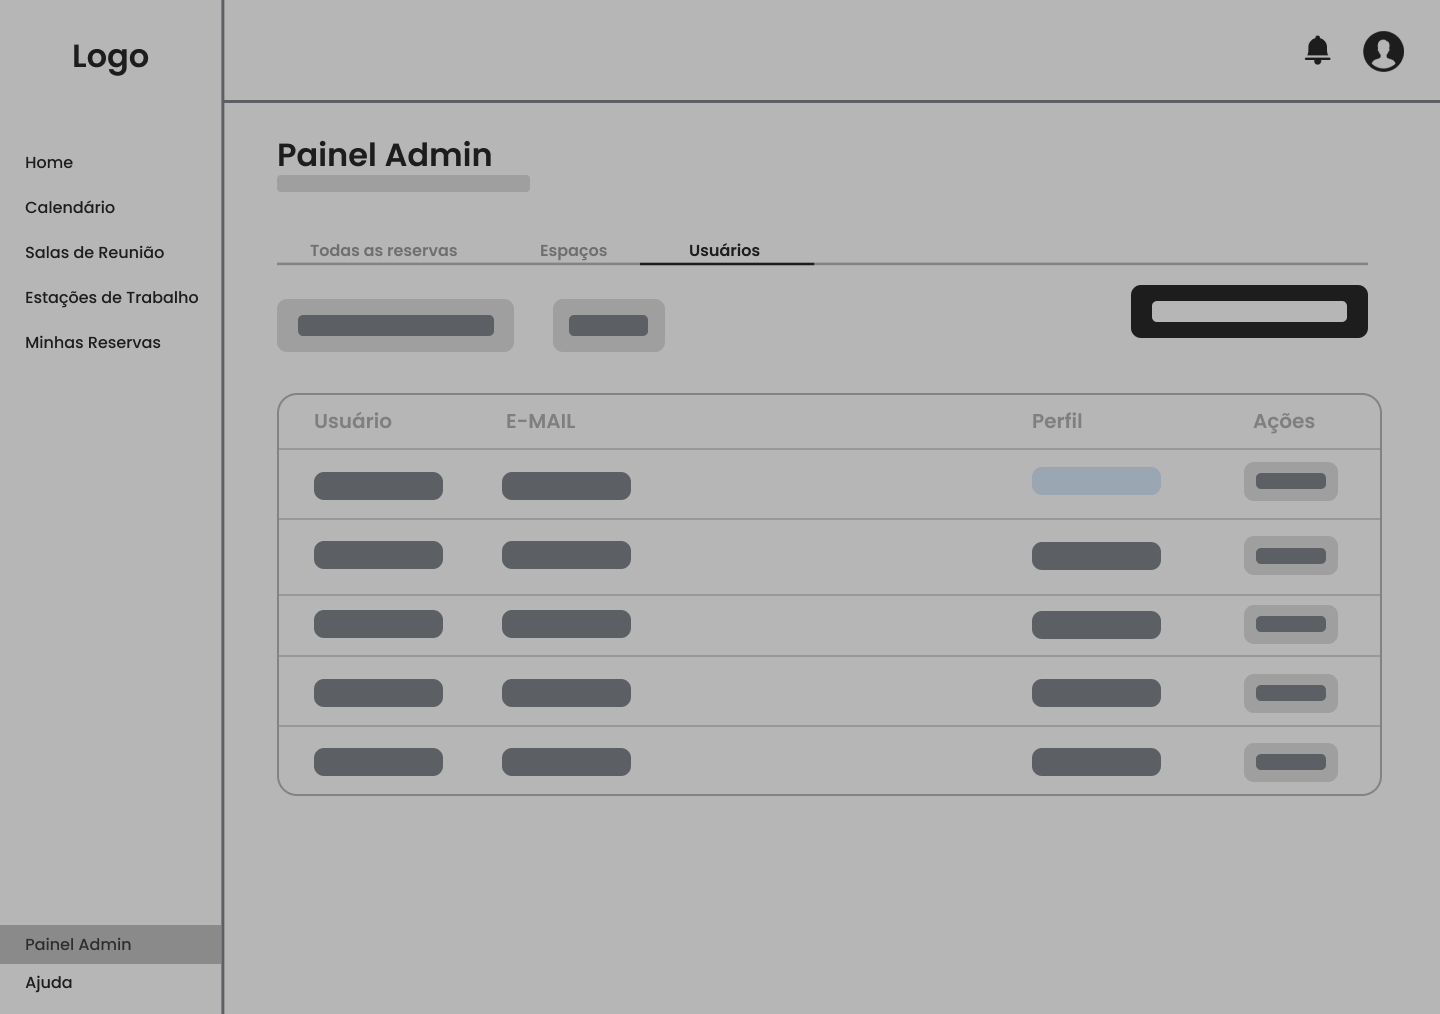
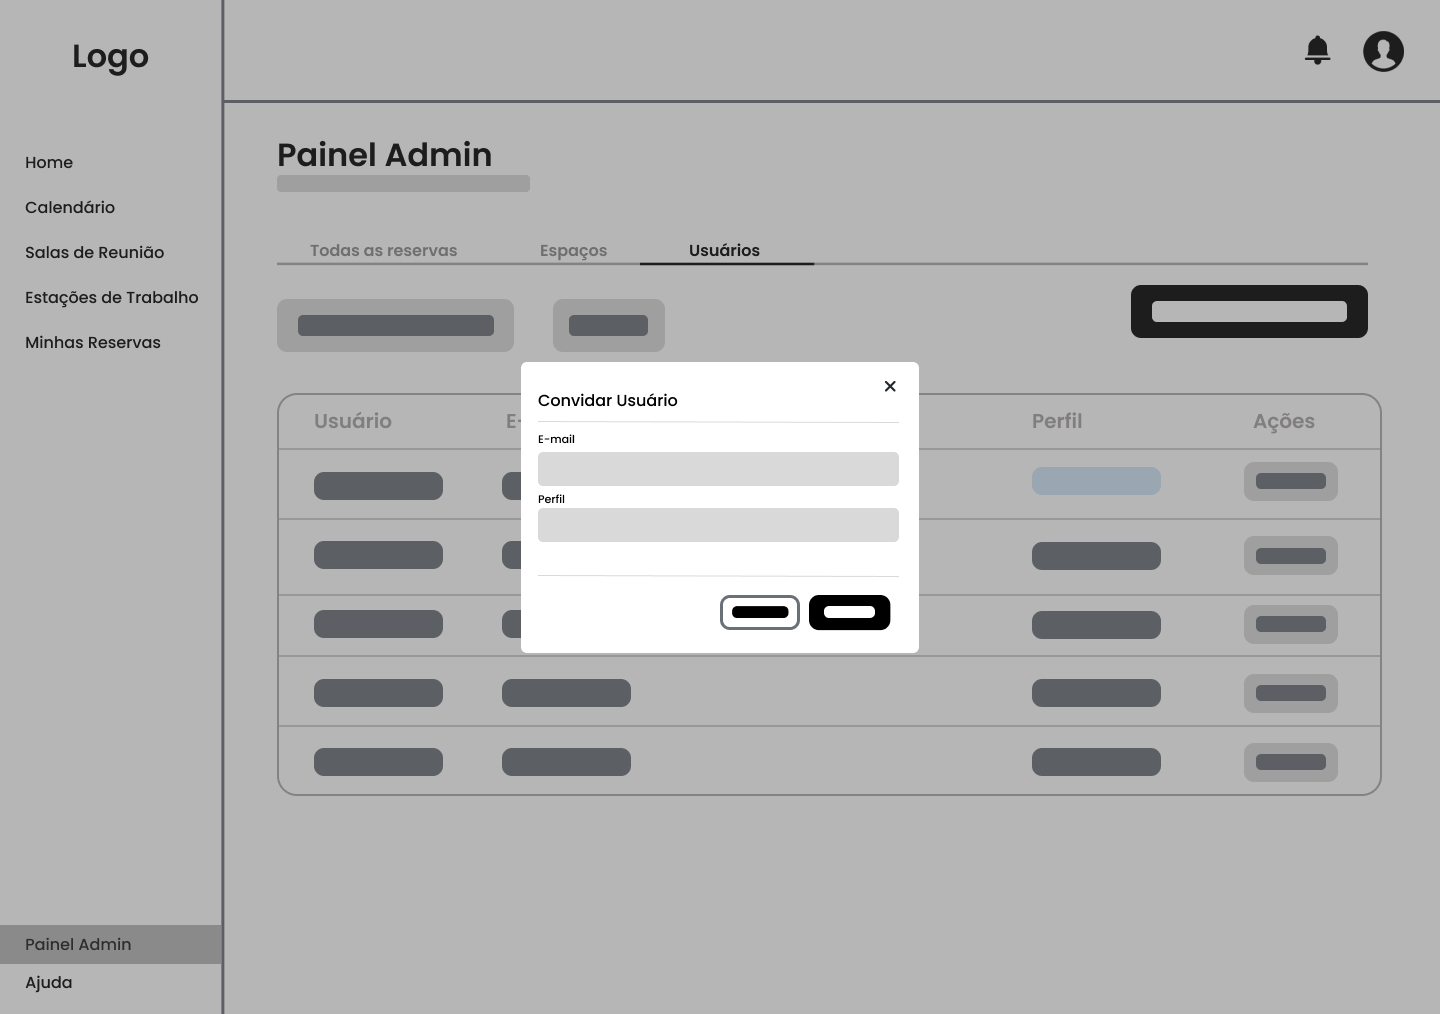
Update interface.md

Changed region(s): [[0.3438, 0.3363, 0.6562, 0.642]]

diff --git a/docs/interface.md b/docs/interface.md
@@ -1,11 +1,12 @@
-
 # Projeto de Interface
 
-A interface do Deskly foi projetada com foco na organização e facilidade de uso, atendendo tanto colaboradores quanto administradores. A navegação permite que os usuários realizem tarefas como visualizar salas, fazer reservas e gerenciar convidados de forma ágil.
+A interface do Deskly apresenta as principais funcionalidades do sistema por meio de telas organizadas e intuitivas, permitindo que usuários realizem reservas, consultem disponibilidade e gerenciem informações de forma eficiente.
 
-As telas foram desenvolvidas com base nas histórias de usuário, garantindo um fluxo eficiente para ações como o agendamento de salas. O sistema também é responsivo, apresenta bom desempenho e organiza as informações de forma clara, facilitando a tomada de decisão.
+As interfaces foram desenvolvidas com base nos requisitos funcionais e não funcionais, além das histórias de usuário, garantindo usabilidade, desempenho e clareza na navegação.
 
 ## User Flow
+
+Fluxo de usuário é uma técnica que permite mapear o caminho percorrido pelo usuário dentro do sistema, representando suas interações desde o acesso até a execução de ações.
 
 O fluxo de usuário do Deskly representa os caminhos desde o login até a execução das principais ações do sistema, como consultas, reservas e gerenciamento.
 
@@ -15,9 +16,9 @@ Após o acesso, o usuário navega entre as funcionalidades disponíveis de forma
 
 ## Wireframes
 
-Os wireframes do Deskly apresentam a estrutura das telas e a disposição dos elementos da interface, como menus, botões e campos de informação.
+Os wireframes são protótipos utilizados para representar a estrutura das telas e a organização dos elementos da interface, como menus, botões e campos de informação.
 
-Eles foram utilizados para definir o layout e a relação entre as páginas, garantindo que cada funcionalidade do sistema esteja bem posicionada e alinhada aos requisitos do projeto.
+No Deskly, eles foram utilizados para definir o layout e a relação entre as páginas, garantindo que cada funcionalidade do sistema esteja bem posicionada e alinhada aos requisitos funcionais definidos na documentação do projeto.
 
 ## Tela de Login
 
@@ -27,25 +28,36 @@ Eles foram utilizados para definir o layout e a relação entre as páginas, gar
 
 ## Tela Inicial (Dashboard)
 
-A tela inicial apresenta um menu lateral com acesso às principais funcionalidades do sistema, como calendário, salas de reunião, estações de trabalho e reservas. No topo, há uma barra de navegação com informações do usuário e notificações. A área central organiza os conteúdos de forma clara para navegação. Nesta tela, são atendidos os requisitos de acesso rápido às funcionalidades e organização do sistema.
+A tela inicial apresenta um menu lateral com acesso às principais funcionalidades do sistema, como calendário, salas de reunião, estações de trabalho e reservas. No topo, há uma barra de navegação com informações do usuário, saudação personalizada, data atual e notificações. A área central exibe um resumo com dados importantes, como quantidade de salas disponíveis, estações livres, número de reservas do dia e membros cadastrados, além da listagem das reservas do usuário com opções de visualizar convidados, editar ou cancelar. Também há ações rápidas para criação de novas reservas.
+
+Nesta tela, são apresentados os seguintes requisitos:
+- RF-04: Visualizar e agendar espaços disponíveis por data e horário
+- RF-05: Visualizar, editar e cancelar suas reservas
+- RF-09: Visualizar a lista de convidados
+- RNF-11: Realizar uma reserva em no máximo 5 passos
 
 ![Wire Frame Inicial](img/WireFrame-Inicial.png)
 
 ### Modal - Tela Inicial (Dashboard)
 
-O modal permite ao usuário realizar uma nova reserva de forma rápida, informando dados como tipo de espaço, data e horário.
+O modal permite ao usuário realizar uma nova reserva de forma rápida e direta. Nele, o usuário pode selecionar o tipo de espaço (sala de reunião ou estação de trabalho), definir a data e o horário desejado e confirmar a ação, reduzindo a quantidade de etapas necessárias para o agendamento e atendendo ao requisito de usabilidade.
 
 ![Wire Frame Modal - Inicial](img/ModalInicial.png)
 
 ## Tela de Calendário
 
-A tela de calendário permite ao usuário visualizar a disponibilidade dos espaços ao longo dos dias e horários. A interface apresenta um calendário interativo, facilitando a identificação de períodos livres e ocupados. Nesta tela, são atendidos os requisitos de visualização de disponibilidade e apoio ao planejamento de reservas.
+A tela de calendário permite ao usuário visualizar a disponibilidade dos espaços ao longo dos dias e horários. A interface apresenta um calendário interativo com navegação entre meses, exibindo reservas de salas e estações em horários específicos. O usuário pode identificar facilmente períodos livres e ocupados, além de iniciar reservas diretamente a partir da visualização.
+
+Nesta tela, são apresentados os seguintes requisitos:
+- RF-04: Visualizar e agendar espaços disponíveis por data e horário
+- RF-07: Visualizar detalhes das salas (capacidade, recursos e status)
+- RNF-11: Realizar uma reserva em no máximo 5 passos
 
 ![Wire Frame Calendário](img/WireFrame-Calendário.png)
 
 ### Modais - Tela de Calendário
 
-Os modais do calendário permitem visualizar detalhes de reservas em horários específicos e iniciar novas reservas diretamente pela visualização do calendário. Eles facilitam o acesso às informações sem interromper a navegação.
+Os modais do calendário permitem ao usuário visualizar os detalhes de uma reserva ao selecionar um evento, incluindo espaço, data e horário. Também possibilitam iniciar uma nova reserva com base no horário selecionado no calendário, mantendo a continuidade da navegação e reduzindo o número de etapas do processo.
 
 <p align="center">
   <img src="img/ModalCalendario1.png" width="45%">
@@ -54,13 +66,19 @@ Os modais do calendário permitem visualizar detalhes de reservas em horários e
 
 ## Tela de Salas de Reunião
 
-A tela de salas de reunião apresenta um menu lateral para navegação e filtros por data, horário e capacidade no topo. A área central exibe a lista de salas com informações como nome, capacidade, recursos e status.
+A tela de salas de reunião apresenta um menu lateral para navegação e filtros no topo, permitindo selecionar data, horário e capacidade desejada. A área central exibe a lista de salas com informações como nome, capacidade, recursos disponíveis e status. O usuário pode visualizar rapidamente as opções disponíveis e iniciar uma reserva.
+
+Nesta tela, são apresentados os seguintes requisitos:
+- RF-01: Cadastrar, editar e desativar salas (visão administrativa)
+- RF-04: Visualizar e agendar salas disponíveis
+- RF-07: Visualizar detalhes das salas
+- RF-08: Adicionar convidados a uma reserva
 
 ![Wire Frame Salas de Reunião](img/WireFrame-SalasReuniao.png)
 
 ### Modais - Tela de Salas de Reunião
 
-Por meio de modais, o usuário pode visualizar detalhes da sala, incluindo horários ocupados, e realizar reservas informando data, horário e convidados, respeitando o limite de capacidade. Nesta tela, são atendidos os requisitos de visualização, detalhamento e reserva de salas.
+Por meio dos modais, o usuário pode visualizar informações detalhadas da sala, incluindo recursos, capacidade e horários disponíveis. Também é possível realizar reservas informando data, horário e convidados, com validação automática conforme a capacidade da sala, evitando conflitos e superlotação.
 
 <p align="center">
   <img src="img/ModalSalasReuniao1.png" width="45%">
@@ -69,25 +87,35 @@ Por meio de modais, o usuário pode visualizar detalhes da sala, incluindo horá
 
 ## Tela de Estações de Trabalho
 
-A tela de estações de trabalho permite ao usuário visualizar e reservar espaços individuais disponíveis. A interface apresenta uma lista organizada com status dos espaços e opções de ação.
+A tela de estações de trabalho permite ao usuário visualizar e reservar espaços individuais disponíveis. A interface apresenta uma lista organizada com identificação das mesas, localização e status.
+
+Nesta tela, são apresentados os seguintes requisitos:
+- RF-04: Visualizar e agendar estações de trabalho
+- RF-01: Gerenciar estações (visão administrativa)
+- RNF-07: Interface responsiva
 
 ![Wire Frame Estações de Trabalho](img/WireFrame-Estacoes.png)
 
 ### Modal - Tela de Estações de Trabalho
 
-O modal permite visualizar detalhes do espaço selecionado e realizar reservas informando data e horário. Ele também exibe o status do espaço, facilitando a tomada de decisão do usuário.
+O modal permite visualizar os detalhes da estação selecionada e realizar a reserva informando data e horário. Também pode ser utilizado para confirmação da ação, garantindo segurança e clareza no processo.
 
 ![Wire Frame Modal - Estações de Trabalho](img/ModalEstações.png)
 
 ## Tela de Minhas Reservas
 
-A tela de minhas reservas apresenta ao usuário a lista de reservas realizadas, permitindo visualizar, editar ou cancelar agendamentos. A interface organiza as informações de forma clara, facilitando o gerenciamento das reservas. Nesta tela, são atendidos os requisitos de controle e gerenciamento de reservas pelo usuário.
+A tela de minhas reservas apresenta ao usuário a lista de reservas realizadas, organizadas entre reservas futuras e histórico. A interface permite visualizar informações completas e realizar ações de edição ou cancelamento.
+
+Nesta tela, são apresentados os seguintes requisitos:
+- RF-05: Visualizar, editar e cancelar reservas
+- RF-09: Visualizar lista de convidados
+- RNF-03: Garantir a integridade dos dados de reservas
 
 ![Wire Frame Minhas Reservas](img/WireFrame-Reservas.png)
 
 ### Modais - Tela de Minhas Reservas
 
-Os modais permitem visualizar detalhes da reserva, editar informações como data e horário, e confirmar o cancelamento. Também são utilizados para confirmar ações realizadas pelo usuário.
+Os modais permitem visualizar os detalhes completos da reserva, editar informações como data e horário e confirmar o cancelamento. Também são utilizados para confirmação de ações, evitando alterações indevidas e garantindo consistência dos dados.
 
 <p align="center">
   <img src="img/ModalMinhasReservas1.png" width="45%">
@@ -99,26 +127,33 @@ Os modais permitem visualizar detalhes da reserva, editar informações como dat
 
 ## Tela Painel Admin (Todas as Reservas)
 
-A tela de todas as reservas apresenta uma visão geral dos agendamentos realizados no sistema. A interface organiza as reservas em formato de lista ou tabela, permitindo ao administrador acompanhar e controlar o uso dos espaços.
+A tela de todas as reservas apresenta uma visão geral dos agendamentos realizados no sistema, permitindo ao administrador visualizar, filtrar e controlar reservas.
+
+Nesta tela, são apresentados os seguintes requisitos:
+- RF-06: Visualizar, editar e cancelar todas as reservas
+- RNF-02: Controle de acesso por perfil (administrador)
 
 ![Wire Frame Painel Admin - Todas as Reservas](img/WireFrame-PainelAdmin1.png)
 
-
 ### Modal - Tela Painel Admin (Todas as Reservas)
 
-O modal permite visualizar detalhes da reserva selecionada e realizar ações como edição ou exclusão, auxiliando no controle administrativo.
+O modal permite visualizar os detalhes da reserva selecionada e realizar ações como exclusão, garantindo maior controle administrativo e organização do sistema.
 
 ![Wire Frame Modal - Painel Admin (Todas as Reservas)](img/ModalPainelAdmin1.png)
 
 ## Tela Painel Admin (Espaços)
 
-A tela de espaços permite ao administrador visualizar, cadastrar e gerenciar salas e estações de trabalho. As informações são apresentadas de forma organizada, facilitando o controle dos ambientes disponíveis.
+A tela de espaços permite ao administrador visualizar, cadastrar e gerenciar salas de reunião e estações de trabalho.
+
+Nesta tela, são apresentados os seguintes requisitos:
+- RF-01: Cadastrar, editar, excluir e desativar espaços
+- RNF-13: Código modular e facilidade de manutenção
 
 ![Wire Frame Painel Admin - Espaços](img/WireFrame-PainelAdmin2.png)
 
 ### Modais - Tela Painel Admin (Espaços)
 
-Os modais permitem cadastrar novos espaços, editar informações como capacidade e recursos, e confirmar exclusões ou alterações. Também possibilitam ativar ou desativar espaços conforme necessário.
+Os modais permitem cadastrar novos espaços, editar informações existentes, ativar ou desativar ambientes e confirmar alterações realizadas, garantindo controle completo sobre os espaços.
 
 <p align="center">
   <img src="img/ModalPainelAdmin2.png" width="45%">
@@ -131,16 +166,20 @@ Os modais permitem cadastrar novos espaços, editar informações como capacidad
 
 ## Tela Painel Admin (Usuários)
 
-A tela de usuários permite ao administrador visualizar e gerenciar os usuários do sistema, controlando o acesso e organização da equipe.
+A tela de usuários permite ao administrador visualizar e gerenciar os usuários do sistema.
+
+Nesta tela, são apresentados os seguintes requisitos:
+- RF-02: Cadastrar usuários
+- RF-02: Remover usuários
+- RNF-02: Controle de acesso por perfil
 
 ![Wire Frame Painel Admin - Usuários](img/WireFrame-PainelAdmin3.png)
 
 ### Modais - Tela Painel Admin (Usuários)
 
-Os modais permitem cadastrar novos usuários, editar informações e remover usuários do sistema. Também são utilizados para confirmação de ações, garantindo maior controle e segurança.
+Os modais permitem cadastrar novos usuários, definir seus níveis de acesso e confirmar a remoção, garantindo segurança no gerenciamento e controle de acesso ao sistema.
 
 <p align="center">
   <img src="img/ModalPainelAdmin6.png" width="45%">
   <img src="img/ModalPainelAdmin7.png" width="45%">
 </p>
-
